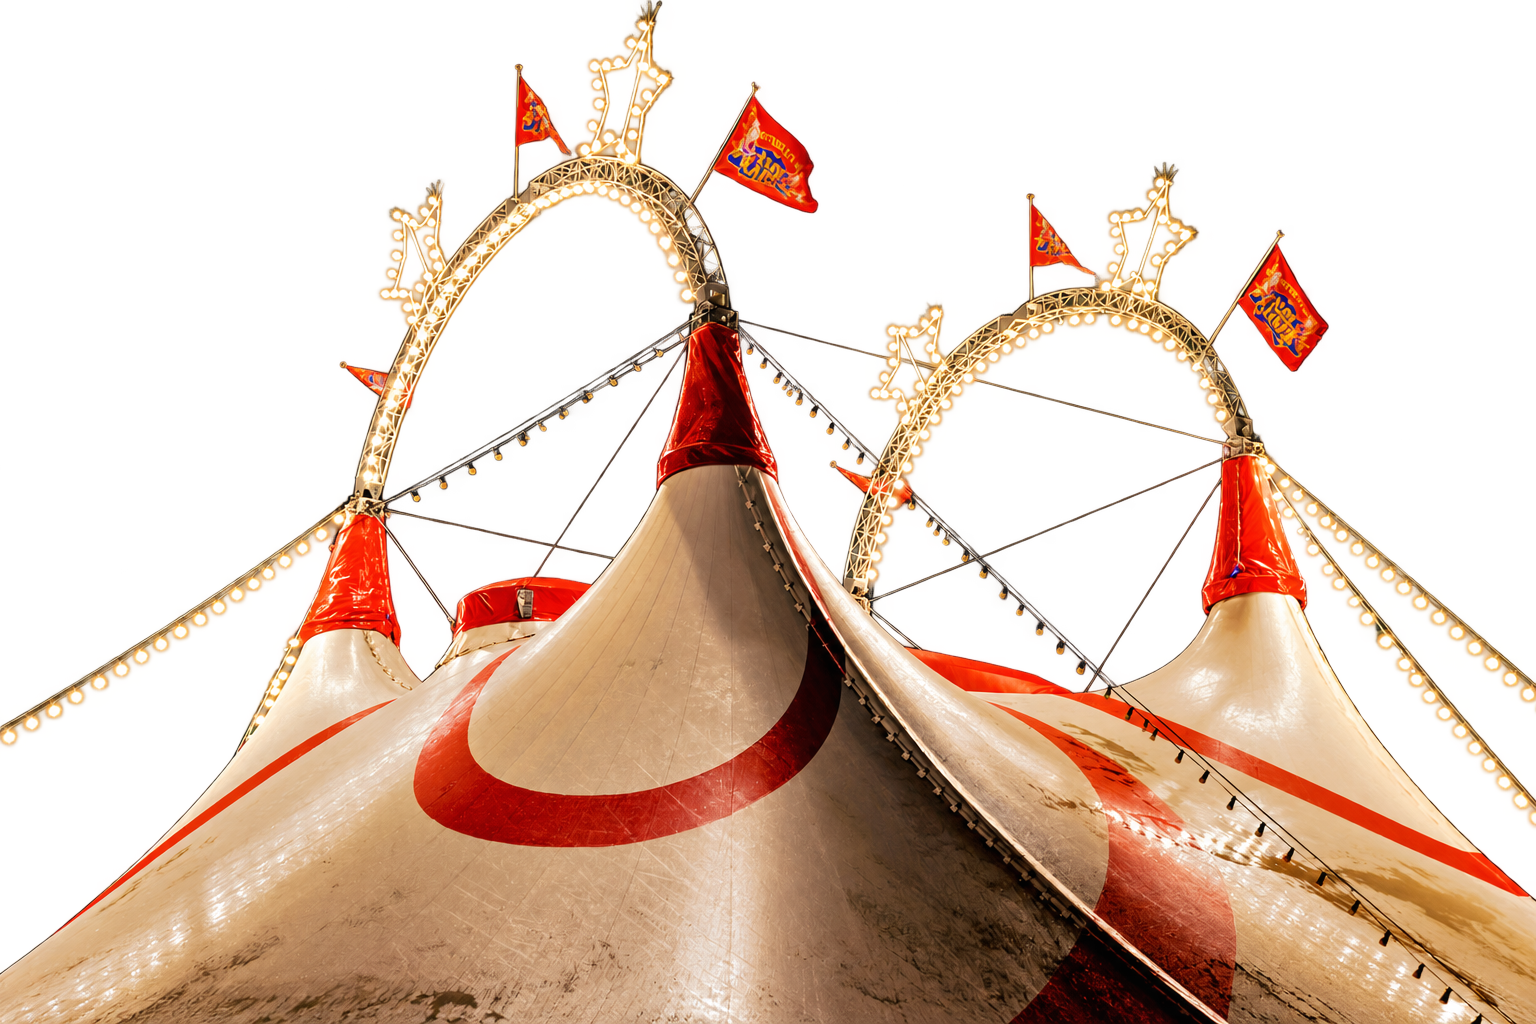
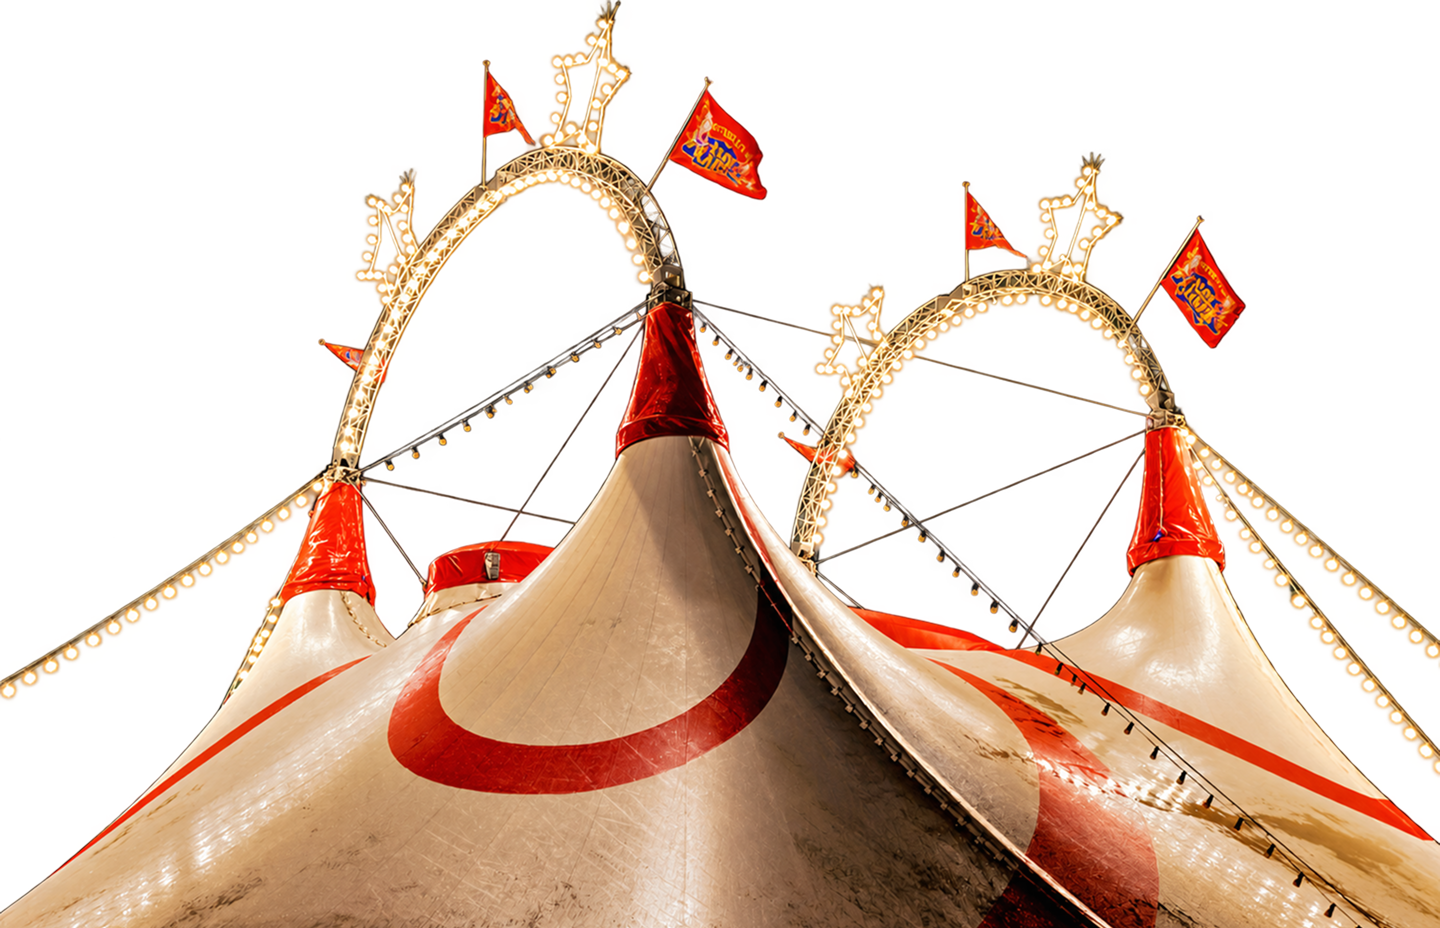
Fix Art Clown tent viewport coverage

Changed region(s): [[0.0, 0.0312, 1.0, 1.0], [0.3125, 0.0625, 0.3438, 0.0938]]

diff --git a/src/ArtClownProject.css b/src/ArtClownProject.css
@@ -187,11 +187,13 @@
 .art-hero-tent {
   position: absolute;
   z-index: 2;
-  top: 14%;
-  left: -15%;
-  width: 130%;
+  top: 9.375%;
+  left: 50%;
+  width: max(103.4483%, 100vw);
   max-width: none;
   height: auto;
+  transform: translateX(-50%);
+  transform-origin: 50% 0;
 }
 
 .art-hero-title {
